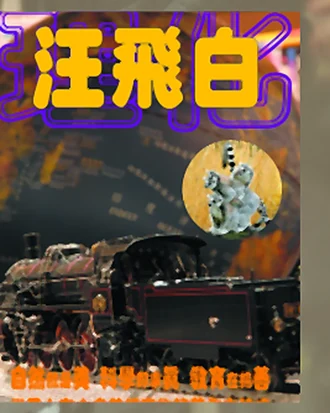
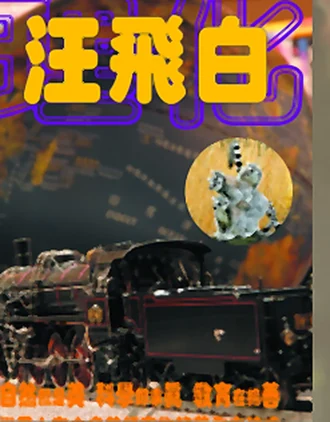
汪老師課程影片加封面橫幅; 行事曆改 WebP; 移除老師課表面板; SEO 修正

diff --git a/index.html b/index.html
@@ -4910,18 +4910,19 @@
     background: linear-gradient(180deg, rgba(27,27,32,0.55), #1b1b20 92%);
   }
   .db-pop-hero-in {
-    position: relative; display: flex; gap: 14px; align-items: flex-end;
+    position: relative; display: flex; gap: 16px; align-items: flex-end;
+  }
+  /* 封面靠右，文字靠左 */
+  .db-pop-hero-covs {
+    display: flex; gap: 12px; margin-left: auto; flex: none;
   }
   .db-pop-hero-cov {
     width: 104px; flex: none; aspect-ratio: 3 / 4;
     border-radius: 12px; overflow: hidden;
-    border: 1px solid rgba(255,255,255,0.18);
     box-shadow: 0 14px 34px rgba(0,0,0,0.55);
-    background: rgba(255,255,255,0.05);
   }
   .db-pop-hero-cov img { width: 100%; height: 100%; object-fit: cover; display: block; }
   .db-pop-hero-txt { padding-bottom: 4px; min-width: 0; display: flex; flex-direction: column; }
-  .db-pop-hero-in > .db-pop-hero-cov { display: block; }
   .db-pop-hero .db-pop-back { display: inline-block; }
   .db-pop-hero-kicker {
     font-family: 'Inter', 'Noto Sans TC', sans-serif;
@@ -4939,7 +4940,8 @@
   @media (max-width: 560px) {
     .db-pop-hero { margin: -22px -18px 16px; padding: 18px 18px 16px; }
     .db-pop-hero-in { gap: 10px; }
-    .db-pop-hero-cov { width: 72px; }
+    .db-pop-hero-covs { gap: 8px; }
+    .db-pop-hero-cov { width: 68px; }
     .db-pop-hero-title { font-size: 1.2rem; }
     .db-pop-hero-sub { font-size: 0.74rem; }
   }
@@ -10465,15 +10467,17 @@ document.addEventListener('DOMContentLoaded', function () {
       hero.innerHTML =
         '<span class="db-pop-hero-bg" style="background-image:url(&quot;' + c.covers[0] + '&quot;)"></span>' +
         '<span class="db-pop-hero-in">' +
-          c.covers.map(function (src) {
-            return '<span class="db-pop-hero-cov">' +
-                     '<img src="' + esc(src) + '" alt="" loading="lazy" decoding="async">' +
-                   '</span>';
-          }).join('') +
           '<span class="db-pop-hero-txt">' +
             '<span class="db-pop-hero-kicker">' + esc(gradeEn + (gradeEn ? ' · ' : '') + subjEn) + '</span>' +
             '<span class="db-pop-hero-title">' + esc(it.name) + '</span>' +
             '<span class="db-pop-hero-sub">' + esc(sub) + '</span>' +
+          '</span>' +
+          '<span class="db-pop-hero-covs">' +
+            c.covers.map(function (src) {
+              return '<span class="db-pop-hero-cov">' +
+                       '<img src="' + esc(src) + '" alt="" loading="lazy" decoding="async">' +
+                     '</span>';
+            }).join('') +
           '</span>' +
         '</span>';
       popCard.insertBefore(hero, popCard.firstChild);
